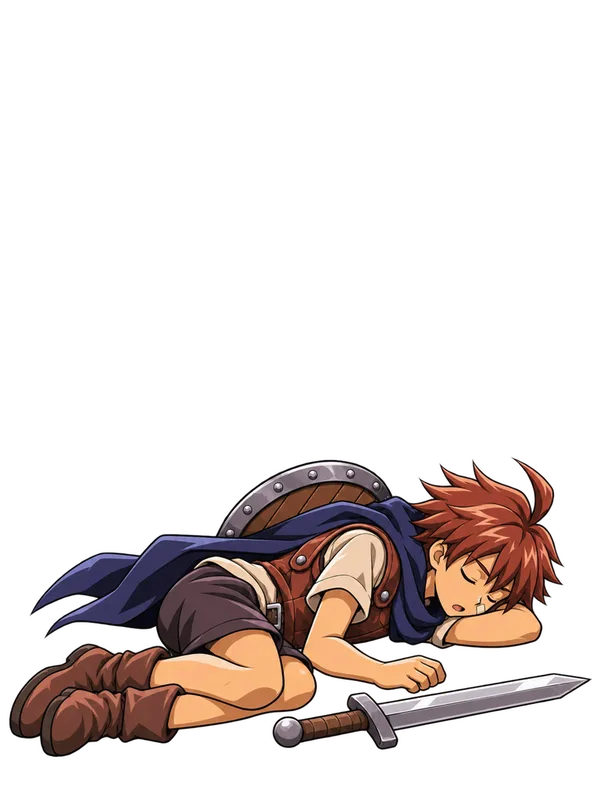
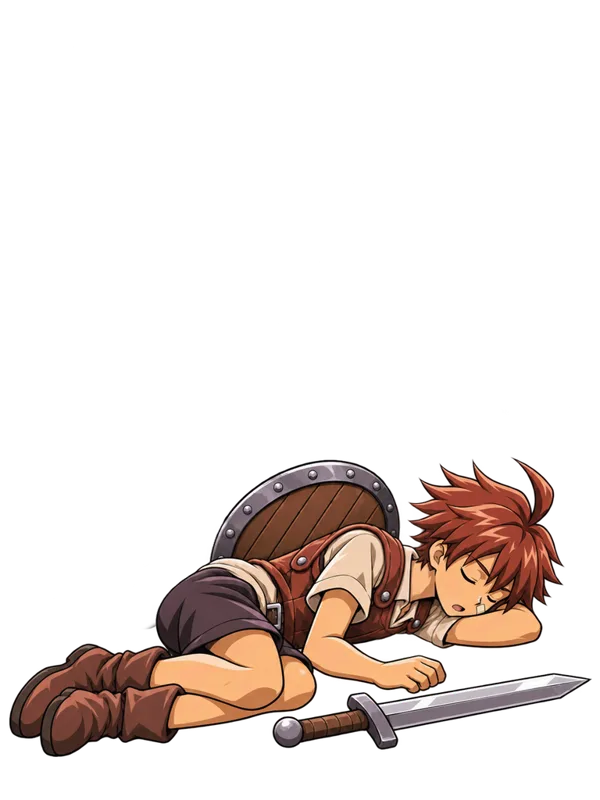
v7.0 裂甲擊無視物理抗性、站姿立繪 22 張與劍士去圍巾版上線

Changed region(s): [[0.06, 0.5938, 0.75, 0.8125]]

diff --git a/index.html b/index.html
@@ -154,7 +154,7 @@ input,textarea{font:inherit;width:100%;padding:8px 10px;border:2px solid var(--l
 .lunge-me{animation:lgM .4s}@keyframes lgM{40%{transform:translate(38%,-28%)}}
 .lunge-foe{animation:lgF .4s}@keyframes lgF{40%{transform:translate(-38%,28%)}}
 .spr.hit .art{animation:hitA .5s .2s}@keyframes hitA{0%{filter:brightness(2.4) saturate(.3)}18%{filter:brightness(1.3)}40%,100%{filter:none}}
-.spr.faint{animation:faint .5s .6s forwards}.faintl{animation:faint .5s 1.4s forwards}.dmg.eltag{font-size:13px;margin-top:-26px;color:#ffd34a}.dmg.eltag.r{color:#9fb0c8}@keyframes faint{to{transform:translateY(60%);opacity:0}}
+.spr.faint{animation:faint .5s .6s forwards}.faintl{animation:faint .5s 1.4s forwards}.dmg.eltag{font-size:13px;margin-top:-26px;color:#ffd34a}.dmg.eltag.r{color:#9fb0c8}.dmg.eltag.rend{color:#ffb070}@keyframes faint{to{transform:translateY(60%);opacity:0}}
 .spr.glow .art{animation:glow .7s}@keyframes glow{50%{box-shadow:0 0 18px 6px #fff7b0;filter:brightness(1.4)}}
 .quake{animation:quake .4s .2s}@keyframes quake{20%,60%{transform:translate(-6px,3px)}40%,80%{transform:translate(6px,-3px)}}
 .fl{position:absolute;inset:-10%;border-radius:50%;opacity:0;animation:fl .45s .2s;pointer-events:none}
@@ -425,7 +425,7 @@ const ADV={
   templar:{n:'聖殿騎士',d:'把信仰變成鐵鎚。力量 +6、體質 +4，Lv.20/23/26 習得天秤、聖光鎚擊、審判之日。被動【信念之鎚】攻擊、魔力 +10%。',bonus:{STR:6,VIT:4}}
 };
 const SK={
-  slash:{n:'裂甲擊',c:'swordsman',lv:1,mp:4,dmg:{s:'ATK',p:1.55},brk:2,d:'踏前一步重砍，敵人破綻 +2。'},
+  slash:{n:'裂甲擊',c:'swordsman',lv:1,mp:4,dmg:{s:'ATK',p:1.55,rend:1},brk:2,d:'踏前一步重砍，敵人破綻 +2。劈開護甲：無視物理抗性。'},
   guard:{n:'招架反擊',c:'swordsman',lv:1,mp:5,counter:1,d:'擺好架勢。下次被攻擊只受 30% 傷害，並反擊 150%。'},
   whirl:{n:'十字裂斬',c:'swordsman',lv:3,mp:8,dmg:{s:'ATK',p:1.2},fin:.6,d:'清算所有破綻，每層傷害 +60%。'},
   warcry:{n:'鬥氣解放',c:'swordsman',lv:8,mp:8,buff:{atk:.35,t:3},endure:1,d:'3 回合攻擊 +35%，受到致命傷時以 1 HP 撐住一次。'},
@@ -1577,7 +1577,7 @@ function vBattle(){const s=stats(),fx=B.fx||{},intro=B.intro,a=AREAS[RUN.area];B
   if(fx.by)B.pfx=fx;const mine=fx.by==='me',theirs=fx.by==='foe',atk=mine&&fx.d!=null;const sk=fx.skill?SKA[fx.skill]:null,fk=theirs&&fx.fsk?(SKM[fx.fsk]||{fx:'roar',c:'#ff4a4a'}):null;B.delayBar=!!(sk||fk);
   const foeC=[intro?'in-r':'',atk&&fx.d>0?(sk?'hitl':'hit'):'',theirs&&!fx.stun?(fk?(MELEE[fk.fx]?'charge lunge2':'charge'):'lunge-foe'):'',B.hp<=0?(sk?'faintl':'faint'):'',B.mut?'mut':'',B.nm?'nm':'',B.treasure?'gold':'',B.wander?'wander':'',...Object.keys(B.st||{}).filter(k=>B.st[k]>0).map(k=>'s-'+k),B.frozen&&B.st.stun>0?'s-freeze':''].join(' ');
   const meC=[intro?'in-l':'',sk?(sk[0]==='slash'||sk[0]==='spin'?'cast dash':'cast'):atk?'lunge-me':'',mine&&fx.glow&&!sk?'glow':'',theirs&&fx.d>0?(fk?'hitl':'hit'):'',...Object.keys(B.pst||{}).filter(k=>B.pst[k]>0).map(k=>'s-'+k)].join(' ');
-  const foeFx=(fx.fheal?`<span class="dmg heal ${fk?'late':''}">+${fx.fheal}</span>`:'')+(atk&&fx.d===0?'<span class="dmg miss">MISS</span>':'')+(atk&&fx.d>0?(sk?`<span class="dmg late ${fx.cr?'cr':''}">-${fx.d}${fx.cr?'!':''}</span>`:`<span class="dmg ${fx.cr?'cr':''}">-${fx.d}${fx.cr?'!':''}</span>`):'')+(atk&&fx.d>0&&B.elHit?`<span class="dmg ${sk?'late':''} eltag ${B.elHit}">${B.elHit==='w'?'弱點！':'抵抗'}</span>`:'');
+  const foeFx=(fx.fheal?`<span class="dmg heal ${fk?'late':''}">+${fx.fheal}</span>`:'')+(atk&&fx.d===0?'<span class="dmg miss">MISS</span>':'')+(atk&&fx.d>0?(sk?`<span class="dmg late ${fx.cr?'cr':''}">-${fx.d}${fx.cr?'!':''}</span>`:`<span class="dmg ${fx.cr?'cr':''}">-${fx.d}${fx.cr?'!':''}</span>`):'')+(atk&&fx.d>0&&B.elHit?`<span class="dmg ${sk?'late':''} eltag ${B.elHit}">${B.elHit==='w'?'弱點！':B.elHit==='rend'?'裂甲！':'抵抗'}</span>`:'');
   const meFx=(theirs?(fx.miss?'<span class="dmg miss">MISS</span>':fx.d>0?(fk?`<span class="dmg late ${fx.cr?'cr':''}">-${fx.d}</span>`:`<span class="dmg">-${fx.d}</span>`):fx.d===0?'<span class="dmg miss">擋下</span>':''):'')+(fx.heal?`<span class="dmg heal ${sk?'late':''}">+${fx.heal}</span>`:'');
   /* 動作依時間發生：先出手，命中瞬間才受傷／倒地，之後回到待機 */
   const fB='mob_'+B.id,fIdle=h=>fB+(h<=0?'_lose':h<30?'_low':''),mB=HK(),mIdle=h=>mB+(h<30?'_low':'');
@@ -1986,6 +1986,7 @@ function loadCode(code){try{const [v,b,c]=code.trim().split('.');if(v!=='AO1')th
 
 /* ============ 公告與限時活動 ============ */
 const NEWS=[
+  {v:'7.0',d:'2026-11-19',t:'裂甲擊破甲、新站姿立繪',b:'劍士的「裂甲擊」現在會劈開護甲，無視物理抗性（史萊姆、幽靈這類不怕刀砍的魔物，改用裂甲擊就能打出正常傷害，命中時跳出「裂甲！」）。角色頁裝備欄的站姿立繪全部 12 職業男女到齊；劍士全套戰鬥圖換成新版。'},
   {v:'6.9',d:'2026-11-19',t:'魔物專屬裝備',b:'10 種新魔物各有一件史詩級專屬裝備，帶有獨特效果：毒沼凝晶戒、雷角疾靴、噬魂菇冠、幽影狼皮甲、熔岩蝠翼墜、水晶核心、暴雪狼牙鍊、雪暴精靈之冠、血誓戰靴、虛無幽魂斗篷。一般 4%、精英 12%、寶藏魔物 30%、徘徊強敵 50% 掉落；點魔物圖像可看牠掉什麼。'},
   {v:'6.8',d:'2026-11-19',t:'新魔物與稀有遭遇',b:'每張地圖新增 2 種魔物（毒沼史萊姆、雷角野兔、噬魂紫菇、幽影狼、熔岩蝙蝠、水晶魔像、暴雪狼、雪暴精靈、血誓騎士、虛無幽魂），各有不同技能與弱點。冒險中可能遇到閃閃發亮的「寶藏魔物」（3 回合內打倒才拿得到大量金幣與裝備）和危險的「徘徊強敵」（強大但掉落豐厚）。'},
   {v:'6.7',d:'2026-11-19',t:'裝備隨機性提升',b:'新掉落的裝備多了「品質」：主屬性在 85%～125% 之間隨機，3% 機率出現 130%～140% 的【完美】裝備；附加詞條數值浮動加大（70%～130%）；稀有以上有 20% 機率多一條詞條。同名同稀有度的裝備也會有明顯差異，值得多刷幾件挑最好的。'},
@@ -2127,7 +2128,7 @@ const basicEl=()=>({swordsman:'phys',ranger:'phys',mage:'arcane',cleric:'holy'}[
 const capB=d=>{if(!B||B.kind!=='boss')return d;const lim=B.max,r=Math.max(1,Math.min(d,lim-(B.tk||0)));B.tk=(B.tk||0)+r;return r};
 function bossPhase(){if(B&&B.kind==='boss'&&!B.ph2&&B.hp>0&&B.hp<=B.max*.5){B.ph2=1;B.fshield=(B.fshield||0)+Math.round(B.max*.12);blog(`${B.name} 被逼入絕境，張開了護盾！`)}}
 function hitFoe(stat,pow,o){o=o||{};const s=stats();if(s.GALE&&!B.gale){B.gale=1;o=Object.assign({},o,{sure:1});B.log.push('【疾風】先發制人！')}if(!o.sure&&Math.random()*100<(B.eva+fbSum('eva'))*.6)return{d:0,cr:false,miss:true};let base=clsDm()*(B.opening?1.5:1)*(S.cls==='swordsman'&&B.cls&&B.cls.brk?1+.06*B.cls.brk:1)*(S.cls==='ranger'&&B.cls&&B.cls.focus?1+.06*B.cls.focus:1)*(stat==='BOTH'?s.ATK+s.MAG:s[stat])*(1+buffSum('atk')+(s.FOCUSATK&&B.cls.focus>=rmax(5)?s.FOCUSATK/100:0))*(B.pst.weak>0?.75:1)*(s.BACK&&S.hp<s.HP*.35?1+s.BACK/100:1);
-  const fdef=stat==='MAG'?(B.mres??B.def):stat==='BOTH'?((B.mres??B.def)+B.def)/2:B.def;const em=elMul(B.id,B.curEl);if(em!==1)B.elHit=em>1?'w':'r';let d=em*base*pow*100/(100+fdef*(1+fbSum('def'))*(1-(o.pierce||0)))*(.9+Math.random()*.2);const cr=!!o.sure||Math.random()*100<-(B.tough||0)+s.CRIT+(o.cr||0)+(hasP('sw1')&&B.cls.brk>=3?15:0);if(cr){const cdm=(s.CD+(hasP('rg3')&&B.cls.focus>=5?30:0)+s.BRKCD*B.cls.brk)/100;d*=1+(cdm-1)*(1-(B.cdr||0))}
+  const fdef=stat==='MAG'?(B.mres??B.def):stat==='BOTH'?((B.mres??B.def)+B.def)/2:B.def;let em=elMul(B.id,B.curEl);if(o.rend&&em<1){em=1;B.elHit='rend'}else if(em!==1)B.elHit=em>1?'w':'r';let d=em*base*pow*100/(100+fdef*(1+fbSum('def'))*(1-(o.pierce||0)))*(.9+Math.random()*.2);const cr=!!o.sure||Math.random()*100<-(B.tough||0)+s.CRIT+(o.cr||0)+(hasP('sw1')&&B.cls.brk>=3?15:0);if(cr){const cdm=(s.CD+(hasP('rg3')&&B.cls.focus>=5?30:0)+s.BRKCD*B.cls.brk)/100;d*=1+(cdm-1)*(1-(B.cdr||0))}
   d=capB(Math.max(1,Math.round(d)));if(B.fshield>0){const ab=Math.min(B.fshield,d);B.fshield-=ab;d-=ab}B.hp=Math.max(0,B.hp-d);bossPhase();return{d,cr}}
 function pAct(type,arg){if(!B||B.busy)return;const s=stats();
   if(type==='skill'&&S.mp<mpCost(arg)){toast('MP 不足');return}
@@ -2229,7 +2230,7 @@ function foeTurn(){if(!B)return;if(B.treasure&&B.turn>=3&&B.hp>0){B=null;RUN.vie
   if(B.pst.stun>0){B.pst.stun--;blog(`你${HST.stun}了，這回合無法行動`);B.busy=true;render();setTimeout(foeTurn,wait+1100);return}
   B.busy=!!wait;render();setTimeout(()=>{if(!B)return;B.busy=false;if(B.auto)autoAct()},wait+(B.auto?(FA?2000+wait:1000):0))}
 function myPd(k,s){s=s||stats();const x=k&&SK[k],st=x?x.dmg.s:'ATK',v=st==='BOTH'?s.ATK+s.MAG:s[st]||s.ATK,df=st==='MAG'?(B.mres??B.def):B.def;
-  return clsDm()*v*(x?x.dmg.p*(x.dmg.h||1)*(1+.15*((S.skl[k]||1)-1)):S.cls==='swordsman'?1.15:1)*100/(100+df)*(1+buffSum('atk'))*(B.opening?1.5:1)*elMul(B.id,x?SKEL2[k]||'phys':'phys')*.85}
+  return clsDm()*v*(x?x.dmg.p*(x.dmg.h||1)*(1+.15*((S.skl[k]||1)-1)):S.cls==='swordsman'?1.15:1)*100/(100+df)*(1+buffSum('atk'))*(B.opening?1.5:1)*(x&&x.dmg.rend?Math.max(1,elMul(B.id,SKEL2[k]||'phys')):elMul(B.id,x?SKEL2[k]||'phys':'phys'))*.85}
 function autoAct(){if(!B||B.busy||!B.auto)return;if(MODAL&&MODAL.k==='foe')return;const s=stats(),sk=mySkills().filter(k=>S.mp>=mpCost(k)&&!(SK[k].ult&&B.ultUsed));
   if(S.hp<s.HP*.4){const h=sk.find(k=>SK[k].heal);if(h)return pAct('skill',h);const p=['pot2','pot'].find(k=>S.items[k]);if(p)return pAct('item',p)}
   const C=B.cls,est=k=>{const x=SK[k];return elMul(B.id,SKEL2[k]||'phys')*x.dmg.p*(x.dmg.h||1)*(1+(x.fin||0)*C.brk+(x.det||0)*C.marks.length+(x.aim||0)*C.focus+(x.faithAmp?Math.min(1,C.faith/100):0)+(x.faithSpend?C.faith/100*1.2:0))+dotV(x)};

diff --git a/sw.js b/sw.js
@@ -1,4 +1,4 @@
-const C='ao-art-v14';
+const C='ao-art-v15';
 self.addEventListener('install',e=>self.skipWaiting());
 self.addEventListener('activate',e=>e.waitUntil(caches.keys().then(ks=>Promise.all(ks.filter(k=>k.startsWith('ao-art')&&k!==C).map(k=>caches.delete(k)))).then(()=>self.clients.claim())));
 const get=(req,n)=>fetch(req).catch(err=>n>0?new Promise(r=>setTimeout(r,800)).then(()=>get(req,n-1)):Promise.reject(err));

diff --git a/DEV_NOTES.md b/DEV_NOTES.md
@@ -80,6 +80,7 @@
 - 審圖不合格的常見原因：臉不像頭像、表情呆板、姿勢僵硬像木頭人、武器歪斜、還畫了圍巾。
 - 2026-11-19 第一批修正（騎士、狂戰士、咒術師、聖殿騎士男 18 張）與劍士站姿男女**已審過上線**。站姿方向確認：手扠腰、劍收鞘、盾背在背上那種。
 - 2026-11-19 站姿立繪第一版 24 張**全部退回**（臉不像、姿勢僵硬、武器歪斜、還有圍巾、聖殿騎士男版紅色罩袍），尚未上線。
+- 2026-11-19 站姿第二版 22 張與劍士去圍巾 30 張**審過上線**（劍士動作圖原本就有的刀光/氣場沿用，未退回）。
 
 ## 工作方式
 1. clone → 讀本檔與 NEWS（`index.html` 裡的 `NEWS` 陣列）。
@@ -96,20 +97,20 @@
 ## 待辦
 - **新魔物 10 種正式插畫**（2026-11-19 新增，目前用同系魔物改色 `MVAR` 頂替）：mob_bogslime、mob_sparkrabbit、mob_soulshroom、mob_shadewolf、mob_lavabat、mob_crystalgolem、mob_blizzardwolf、mob_stormsprite、mob_bloodknight、mob_voidwraith（各要待機、_atk、_hurt、_low、_lose，512 透明、面向左）。名稱與技能見 `MVAR`。圖到位後程式會自動改用正式圖、不再套色。優先順序在站姿與拿掉圍巾之後。
 - 魔物專屬裝備 10 件圖示（icon_x_bog… icon_x_void，128 方形，與現有裝備圖示同風格），目前用部位預設圖示。
-- **裝備欄站姿立繪**（2026-11-19 已派給 Codex）：`class_<職業>_<m|f>_stand.png` ×24（12 職業×男女），正面放鬆站姿、武器收好。到圖後照審圖標準檢查（武器要有支撐、手腳數量、全身不裁切），合格轉 600×800 webp 放 `art/`，跑 build_list.py、sw.js 版本 +1。程式已寫好：`dollHtml()` 有 `_stand` 圖就用，沒有就用原立繪。
+- **拿掉圍巾下一批：法師 mage 男女 30 張**＋templar_m_sk_heal 拿掉腰間書（v7.0 排程要派時，Codex 輸入框已有一段非使用者確認的草稿，內容正是這批，依規定沒覆蓋；下次看 Codex 是否已在畫，沒有就派）。之後 ranger → cleric → 其餘進階職業。
 - 裝備：稀有詞綴、首領寶物堆三選一（`BBOX`、`bossBox`、`RUN.view.box`）已上線；全自動不換裝，詞綴實戰強度待觀察。可觀察封印寶箱 35% 是否太低。
 - 首領模擬（無裝備、點數全加主屬＋VIT，哥布林隊長 Lv5）：劍士 Lv4 約 5/6 勝；v3.7 後法師 Lv5 約 5/6、遊俠 Lv4–5 約 1/2–2/3。持續觀察。
 - 主線第一章「殺 3 哥布林」後首領就現身，玩家約 Lv2 就會碰上 Lv5 首領；已加地點卡片警告，若仍太卡可考慮（待製作人決定）。
 - 首領前哨（`RUN.view.type==='gate'`、`bossGate`、`ACT.bossGo`、`RUN.gate`）＋戰前準備三選一（`PREP`、`gatePrep`、`doPrep`、`RUN.prep`/`RUN.prepUsed`）已上線；可觀察偵察價格（20+Lv×8）是否太便宜。
 - 練等速度（v4.4 測 5 分鐘全自動，回合/場）：劍士 6.2、神官 4.6、遊俠 3.3、法師 3.1（v4.4 前 2.6）。
-- 劍士練等仍最慢（5 分鐘約 11 殺，法師約 19）：可再看劍士傷害或怪物 HP。
+- 劍士練等仍最慢：v7.0 測 Lv1 每場回合 劍士 6.3、法師 3.1、遊俠 3.7、祭司 5.0。主因之一是草原史萊姆抗物理（×0.6），v7.0 裂甲擊改為無視物理抗性；持續觀察。
 - 金幣累積快（Lv3 約 900–1300 G），可考慮更多有取捨的金幣用途。
 - 全自動不會分配屬性點／技能點／換裝，測試時要自己補。
 - 技能：檢查 53 招的 MP 與傷害是否有明顯沒人用的招。
-- 審圖意見（14:14）：templar_m_sk_heal 腰間多一本書，可請 Codex 拿掉。Codex 14:21 仍在執行中，留言「站姿批次停在劍士兩張，等確認方向」——下次 Codex 閒置時回覆「劍士站姿通過，照同方向畫其餘 22 張（附頭像與待機圖參考）」並退回那本書，再派劍士動作圖拿掉圍巾。
 - banner_fest1 還是舊畫風。
 
 ## 已完成（自動排程）
+- v7.0：裂甲擊 `dmg.rend` 無視物理抗性（`hitFoe` 的 `o.rend`、`myPd` 同步，命中標籤「裂甲！」`.eltag.rend`）。站姿立繪 22 張（第二版）＋劍士男女 30 張去圍巾版審過上線，站姿 24 張到齊，sw.js v15。
 - v6.2：旅行商人「懸賞情報」（價格 u×5、每店限一次，`RUN.hunt`）：下一場普通戰鬥變精英＋守寶（`B.hoard`、金幣×2、名稱「懸賞・」）。全自動不會買。5 張退件重畫（sniper_f_hurt、sniper_m_sk_arrowstorm、templar_f_skill、bishop_f_win、bishop_f_sk_miracle）審過上線，sw.js v14。
 - 測試備註：全自動開場劇情約 60 秒、每回合約 5 秒；2 核心機器多頁平行時殺怪數很低，屬正常節奏非卡住。rank_url.txt 不在已連線資料夾（只連 art_v3），排程無法自行讀取。
 - v4.8：斬殺線（`myPd` 估算一擊傷害，敵方狀態列顯示「🗡 普攻/技能可斬殺」）；`autoAct` 能一擊收掉就用最省 MP 招斬殺、對方攻擊 <15% HP 且 2 擊內可收尾時不招架（`soft`）。全自動劍士防守回合 45%→27%。4 職業各 5 分鐘無錯誤、無缺圖。
